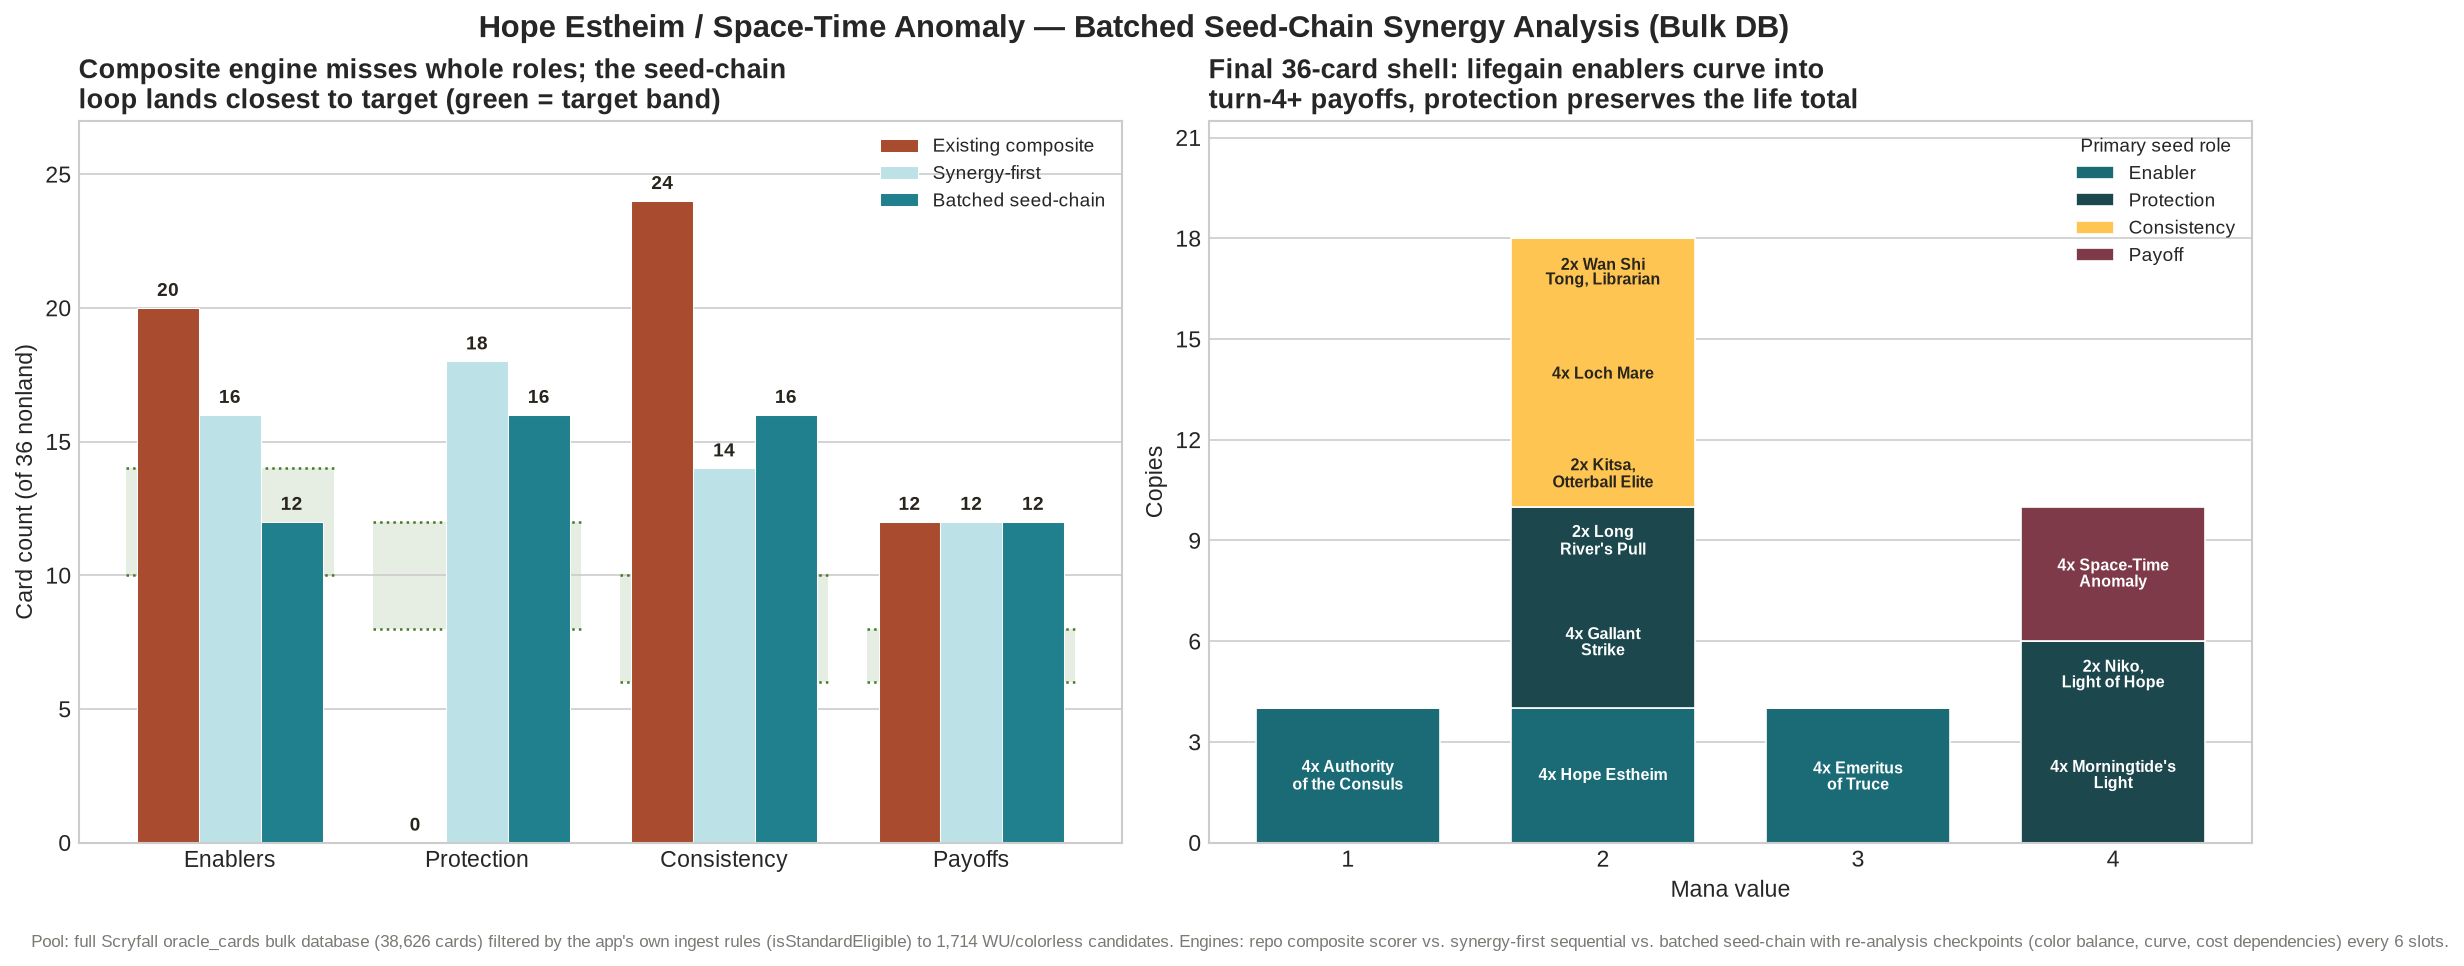
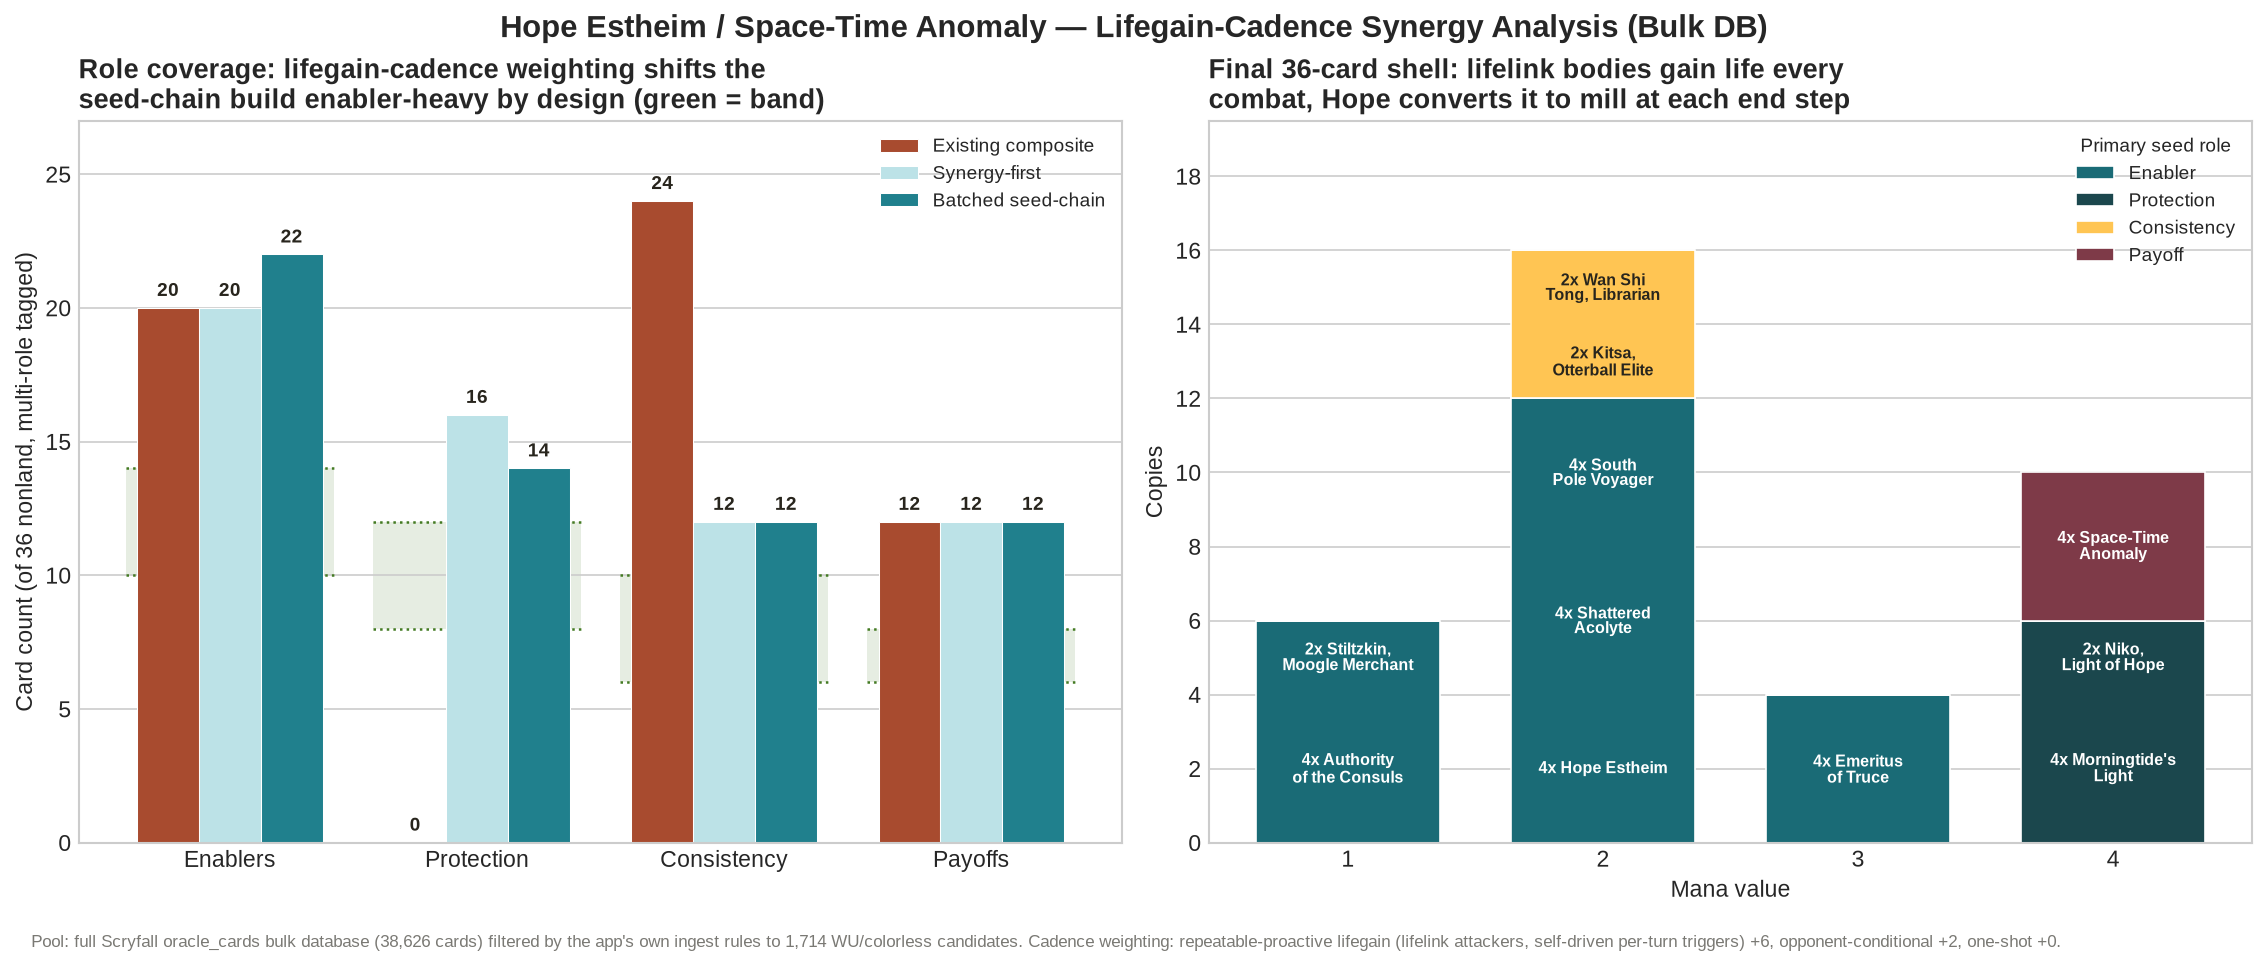
Generalize enabler quality into seed-agnostic resource-cadence weighting
- ResourceSpec: seed modules declare DATA (resource name, static producer
  keywords, trigger/one-shot production patterns, weighted role)
- resourceCadence(): generic sentence-scoped classifier — repeatable-proactive /
  repeatable-conditional / one-shot
- Scoring bonus (+6/+2/+0) applied only to the spec's weighted role
- Hope Estheim seed supplies a 4-line spec (lifegain, Lifelink, /gain..life/)
- Test build now fields a real lifelink core: Stiltzkin, Shattered Acolyte,
  South Pole Voyager displace one-shot tricks and non-lifegain fillers
- Regenerated report, decklist, MTGA export, summary.json, synergy chart

diff --git a/src/lib/generator/hopeEstheimSynergy.ts b/src/lib/generator/hopeEstheimSynergy.ts
@@ -439,6 +439,69 @@ function preventionBonus(card: CardRecord): number {
  * pool after every pick, because role-gap and saturation terms are only
  * meaningful relative to what has already been selected.
  */
+// ── Resource cadence (seed-agnostic engine) ─────────────────────────────
+// A seed\'s payoff consumes some RESOURCE (life gained this turn, artifacts,
+// tokens, cards in graveyard, ...). Enabler quality is about the CADENCE of
+// producing that resource, not the mere presence of matching text:
+//   repeatable-proactive  — the card produces the resource every turn on the
+//                           controller\'s own initiative (static combat
+//                           keywords like lifelink, self-driven per-turn
+//                           triggers).
+//   repeatable-conditional — recurring production that depends on opponent
+//                           actions.
+//   one-shot              — a single burst; fuels the payoff once, then is
+//                           spent.
+// The ENGINE below is generic; each seed module supplies only DATA (a
+// ResourceSpec) describing how its resource is produced. For a graveyard
+// seed the spec would list keywords like "mill" and a /put.*into.*graveyard/
+// trigger pattern instead — no engine change needed.
+export type ResourceCadence = "repeatable-proactive" | "repeatable-conditional" | "one-shot" | null;
+
+export interface ResourceSpec {
+  /** Human-readable resource name for build-log notes. */
+  name: string;
+  /** Static keywords on creatures that produce the resource every combat. */
+  staticProducerKeywords: string[];
+  /** Resource production inside a repeatable trigger clause. */
+  triggerProductionPattern: RegExp;
+  /** One-time production text (spells, ETB bursts). */
+  oneShotProductionPattern: RegExp;
+  /** Role whose candidates are scored by production cadence. */
+  weightedRole: SeedRole;
+}
+
+export function resourceCadence(card: CardRecord, spec: ResourceSpec): ResourceCadence {
+  const text = (card.oracleText ?? "").toLowerCase();
+  const isCreature = card.typeLine.includes("Creature");
+  const hasStaticProducer = spec.staticProducerKeywords.some(
+    (k) => new RegExp(`\\b${k.toLowerCase()}\\b`).test(text) || (card.keywordsJson ?? "").includes(k)
+  );
+  if (isCreature && hasStaticProducer) return "repeatable-proactive";
+  for (const sentence of text.split(/(?<=\.)\s+/)) {
+    if (/(whenever|at the beginning)/.test(sentence) && spec.triggerProductionPattern.test(sentence)) {
+      return /opponent|each player/.test(sentence) ? "repeatable-conditional" : "repeatable-proactive";
+    }
+  }
+  if (spec.oneShotProductionPattern.test(text) || hasStaticProducer) return "one-shot";
+  return null;
+}
+
+const CADENCE_BONUS: Record<Exclude<ResourceCadence, null>, number> = {
+  "repeatable-proactive": 6,
+  "repeatable-conditional": 2,
+  "one-shot": 0,
+};
+
+// Seed DATA for Hope Estheim / Space-Time Anomaly: the payoff consumes
+// "life gained this turn", produced statically by lifelink combat damage.
+export const HOPE_ESTHEIM_RESOURCE: ResourceSpec = {
+  name: "lifegain",
+  staticProducerKeywords: ["Lifelink"],
+  triggerProductionPattern: /gain[^.]*life/,
+  oneShotProductionPattern: /gain(s)?\s+(\d+|x|that much)\s+life/,
+  weightedRole: "Enabler",
+};
+
 // Activation-cost dependencies: a card whose ability needs OTHER resources is
 // only worth its text if the deck can actually pay the cost. Found via the
 // bulk-DB pool: Technodrome ("{T}, Sacrifice another artifact: Draw a card")
@@ -509,7 +572,15 @@ export function scoreCandidate(
   }
 
   const dependency = costDependencyPenalty(card, adjustments);
-  const final = (basePowerScore * gapMultiplier - satPenalty + timing + prevention + curveBonus) * colorMult * dependency.mult;
+
+  // Resource-cadence bonus — only for cards filling the seed's weighted
+  // role; a repeatable proactive producer feeds the payoff EVERY turn, so it
+  // outranks equal-power one-shot or opponent-conditional production.
+  const spec = HOPE_ESTHEIM_RESOURCE;
+  const cadence = roles.includes(spec.weightedRole) ? resourceCadence(card, spec) : null;
+  const cadenceBonus = cadence ? CADENCE_BONUS[cadence] : 0;
+
+  const final = (basePowerScore * gapMultiplier - satPenalty + timing + prevention + curveBonus + cadenceBonus) * colorMult * dependency.mult;
 
   const target = SEED_ROLE_TARGETS;
   const [lo] = bestGapRole === "Enabler" ? target.enablers
@@ -535,7 +606,7 @@ export function scoreCandidate(
     curveTimingBonus: timing,
     preventionBonus: prevention,
     final,
-    note: `Selected because it fills ${bestGapRole}, current gap is ${gap}, and it improves ${[...new Set(advances)].join(" / ") || "role coverage"}.${dependency.note ? ` [${dependency.note}]` : ""}` +
+    note: `Selected because it fills ${bestGapRole}, current gap is ${gap}, and it improves ${[...new Set(advances)].join(" / ") || "role coverage"}.${cadence ? ` [${spec.name} cadence: ${cadence} +${cadenceBonus}]` : ""}${dependency.note ? ` [${dependency.note}]` : ""}` +
       (colorMult !== 1.0 ? ` [color-balance x${colorMult.toFixed(2)}]` : "") +
       (curveBonus > 0 ? ` [cheap-curve +${curveBonus}]` : ""),
   };

diff --git a/docs/synergy-first-poc/comparison-report.md b/docs/synergy-first-poc/comparison-report.md
@@ -5,8 +5,8 @@ Pool size after Standard-legal + seed-role filtering: 1636 cards (raw Scryfall d
 ## Role counts achieved
 
 - Existing composite engine (Control archetype, generic role/synergy axes): {"enablers":20,"protection":0,"consistency":24,"payoffs":12,"lands":0,"nonlandTotal":36}
-- Synergy-first sequential engine (seed-specific Enabler/Protection/Consistency/Payoff): {"enablers":16,"protection":18,"consistency":14,"payoffs":12,"lands":0,"nonlandTotal":36}
-- Batched seed-chain engine (synergy-first + re-analysis checkpoints every 6 slots): {"enablers":12,"protection":16,"consistency":16,"payoffs":12,"lands":0,"nonlandTotal":36}
+- Synergy-first sequential engine (seed-specific Enabler/Protection/Consistency/Payoff): {"enablers":20,"protection":16,"consistency":12,"payoffs":12,"lands":0,"nonlandTotal":36}
+- Batched seed-chain engine (synergy-first + re-analysis checkpoints every 6 slots): {"enablers":22,"protection":14,"consistency":12,"payoffs":12,"lands":0,"nonlandTotal":36}
 - Target bands: {"enablers":[10,14],"protection":[8,12],"consistency":[6,10],"payoffs":[6,8],"lands":24}
 
 ## Feasibility flags — existing composite engine's build
@@ -28,14 +28,14 @@ Pool size after Standard-legal + seed-role filtering: 1636 cards (raw Scryfall d
 ## Pick log — synergy-first engine
 - [SYNERGY-FIRST] Pick: Niko, Light of Hope x2 — final=51.5 (base=19.0, gapMult=2.50, satPenalty=0.0, timing=4, prevention=0) — Selected because it fills Protection, current gap is 8, and it improves early stability / payoff access / protection.
 - [SYNERGY-FIRST] Pick: Emeritus of Truce // Swords to Plowshares x4 — final=42.3 (base=18.0, gapMult=2.13, satPenalty=0.0, timing=4, prevention=0) — Selected because it fills Protection, current gap is 6, and it improves early stability / life gain density / protection.
-- [SYNERGY-FIRST] Pick: Season of the Burrow x4 — final=38.0 (base=19.0, gapMult=2.00, satPenalty=0.0, timing=0, prevention=0) — Selected because it fills Consistency, current gap is 4, and it improves payoff access / protection.
-- [SYNERGY-FIRST] Pick: Morningtide's Light x2 — final=26.0 (base=12.0, gapMult=1.00, satPenalty=0.0, timing=4, prevention=10) — Selected because it fills Protection, current gap is 0, and it improves early stability / protection.
-- [SYNERGY-FIRST] Pick: Kitsa, Otterball Elite x2 — final=21.0 (base=15.0, gapMult=1.00, satPenalty=0.0, timing=6, prevention=0) — Selected because it fills Consistency, current gap is 0, and it improves payoff access.
+- [SYNERGY-FIRST] Pick: South Pole Voyager x2 — final=40.0 (base=14.0, gapMult=2.00, satPenalty=0.0, timing=6, prevention=0) — Selected because it fills Consistency, current gap is 4, and it improves life gain density / payoff access. [lifegain cadence: repeatable-proactive +6]
+- [SYNERGY-FIRST] Pick: Morningtide's Light x4 — final=30.5 (base=12.0, gapMult=1.38, satPenalty=0.0, timing=4, prevention=10) — Selected because it fills Protection, current gap is 2, and it improves early stability / protection.
+- [SYNERGY-FIRST] Pick: Kitsa, Otterball Elite x2 — final=28.5 (base=15.0, gapMult=1.50, satPenalty=0.0, timing=6, prevention=0) — Selected because it fills Consistency, current gap is 2, and it improves payoff access.
+- [SYNERGY-FIRST] Pick: Gallant Strike x2 — final=22.0 (base=12.0, gapMult=1.00, satPenalty=0.0, timing=10, prevention=0) — Selected because it fills Protection, current gap is 0, and it improves early stability / payoff access / protection.
 - [SYNERGY-FIRST] Pick: Wan Shi Tong, Librarian x2 — final=21.0 (base=15.0, gapMult=1.00, satPenalty=0.0, timing=6, prevention=0) — Selected because it fills Consistency, current gap is 0, and it improves payoff access.
-- [SYNERGY-FIRST] Pick: Case of the Uneaten Feast x2 — final=17.0 (base=11.0, gapMult=1.00, satPenalty=0.0, timing=6, prevention=0) — Selected because it fills Enabler, current gap is 0, and it improves early stability / life gain density.
 - [SYNERGY-FIRST] SHORTFALL: strict role-ceiling rule exhausted all eligible candidates at 30/36 nonland cards (roles at ceiling: Enabler, Protection, Consistency, Payoff). Topping up remaining 6 slots with best-scoring cards regardless of ceiling — see OVERFLOW picks below.
-- [SYNERGY-FIRST] OVERFLOW pick: Gallant Strike x4 — final=22.0 — added past ceiling to reach the 36-card nonland target; role counts after: {"enablers":14,"protection":16,"consistency":14,"payoffs":12,"lands":0,"nonlandTotal":34}
-- [SYNERGY-FIRST] OVERFLOW pick: Bumbleflower's Sharepot x2 — final=21.0 — added past ceiling to reach the 36-card nonland target; role counts after: {"enablers":16,"protection":18,"consistency":14,"payoffs":12,"lands":0,"nonlandTotal":36}
+- [SYNERGY-FIRST] OVERFLOW pick: Shattered Acolyte x4 — final=25.0 — added past ceiling to reach the 36-card nonland target; role counts after: {"enablers":18,"protection":16,"consistency":10,"payoffs":12,"lands":0,"nonlandTotal":34}
+- [SYNERGY-FIRST] OVERFLOW pick: Stiltzkin, Moogle Merchant x2 — final=24.0 — added past ceiling to reach the 36-card nonland target; role counts after: {"enablers":20,"protection":16,"consistency":12,"payoffs":12,"lands":0,"nonlandTotal":36}
 
 ## Pick log — batched seed-chain engine (checkpoints inline)
 - [SEED-CHAIN] Checkpoint 1 (seed only, 12 cards): Color balance OK: W 60% / U 40% of colored pips. | Curve OK: 67% of nonland cards are MV<=2.
@@ -47,12 +47,12 @@ Pool size after Standard-legal + seed-role filtering: 1636 cards (raw Scryfall d
 - [SEED-CHAIN] Pick: Long River's Pull x2 — final=26.5 — Selected because it fills Protection, current gap is 2, and it improves early stability / payoff access / protection.
 - [SEED-CHAIN] Checkpoint 3 (24/36 nonland): Color balance OK: W 57% / U 43% of colored pips. | Curve OK: 58% of nonland cards are MV<=2.
 - [SEED-CHAIN] Pick: Morningtide's Light x4 — final=26.0 — Selected because it fills Protection, current gap is 0, and it improves early stability / protection.
-- [SEED-CHAIN] Pick: Loch Mare x2 — final=21.0 — Selected because it fills Consistency, current gap is 0, and it improves payoff access.
-- [SEED-CHAIN] Checkpoint 4 (30/36 nonland): Color balance OK: W 58% / U 42% of colored pips. | Curve OK: 53% of nonland cards are MV<=2.
-- [SEED-CHAIN] Pick: Case of the Uneaten Feast x2 — final=17.0 — Selected because it fills Enabler, current gap is 0, and it improves early stability / life gain density.
-- [SEED-CHAIN] SHORTFALL: strict role-ceiling rule exhausted candidates at 32/36 — topping up with OVERFLOW picks (still color/curve-adjusted).
-- [SEED-CHAIN] OVERFLOW pick: Gallant Strike x4 — final=22.0
-- [SEED-CHAIN] CONSOLIDATE: moved 2x from Case of the Uneaten Feast into Loch Mare (now 4x) — playset consistency over one-of spread.
+- [SEED-CHAIN] Pick: South Pole Voyager x2 — final=26.0 — Selected because it fills Enabler, current gap is 0, and it improves early stability / life gain density / payoff access. [lifegain cadence: repeatable-proactive +6]
+- [SEED-CHAIN] Checkpoint 4 (30/36 nonland): Color balance OK: W 62% / U 38% of colored pips. | Curve OK: 53% of nonland cards are MV<=2.
+- [SEED-CHAIN] SHORTFALL: strict role-ceiling rule exhausted candidates at 30/36 — topping up with OVERFLOW picks (still color/curve-adjusted).
+- [SEED-CHAIN] OVERFLOW pick: Shattered Acolyte x4 — final=25.0
+- [SEED-CHAIN] OVERFLOW pick: Stiltzkin, Moogle Merchant x2 — final=24.0
+- [SEED-CHAIN] CONSOLIDATE: moved 2x from Long River's Pull into South Pole Voyager (now 4x) — playset consistency over one-of spread.
 - [SEED-CHAIN] Consolidation complete: 2 slots moved into deeper playsets; distinct nonland cards reduced.
 
 ## DIVERGENCE — cards picked by ONLY the existing composite engine
@@ -68,13 +68,13 @@ Pool size after Standard-legal + seed-role filtering: 1636 cards (raw Scryfall d
 ## DIVERGENCE — cards picked by ONLY the synergy-first engine
 - Niko, Light of Hope (CMC 4) — seed roles: Protection, Consistency
 - Emeritus of Truce // Swords to Plowshares (CMC 3) — seed roles: Enabler, Protection
-- Season of the Burrow (CMC 5) — seed roles: Protection, Consistency
+- South Pole Voyager (CMC 2) — seed roles: Enabler, Consistency
 - Morningtide's Light (CMC 4) — seed roles: Protection
 - Kitsa, Otterball Elite (CMC 2) — seed roles: Consistency
-- Wan Shi Tong, Librarian (CMC 2) — seed roles: Consistency
-- Case of the Uneaten Feast (CMC 1) — seed roles: Enabler
 - Gallant Strike (CMC 2) — seed roles: Protection, Consistency
-- Bumbleflower's Sharepot (CMC 2) — seed roles: Enabler, Protection
+- Wan Shi Tong, Librarian (CMC 2) — seed roles: Consistency
+- Shattered Acolyte (CMC 2) — seed roles: Enabler, Protection
+- Stiltzkin, Moogle Merchant (CMC 1) — seed roles: Enabler, Consistency
 
 ## Final 60-card decklist — batched seed-chain engine + real Azorius mana base
 
@@ -82,11 +82,11 @@ Seed package (locked): 4x Hope Estheim, 4x Authority of the Consuls, 4x Space-Ti
 
 ### Nonland (36)
 - 4x Authority of the Consuls (CMC 1)
-- 4x Gallant Strike (CMC 2)
+- 2x Stiltzkin, Moogle Merchant (CMC 1)
 - 4x Hope Estheim (CMC 2)
 - 2x Kitsa, Otterball Elite (CMC 2)
-- 4x Loch Mare (CMC 2)
-- 2x Long River's Pull (CMC 2)
+- 4x Shattered Acolyte (CMC 2)
+- 4x South Pole Voyager (CMC 2)
 - 2x Wan Shi Tong, Librarian (CMC 2)
 - 4x Emeritus of Truce // Swords to Plowshares (CMC 3)
 - 4x Morningtide's Light (CMC 4)
@@ -96,8 +96,8 @@ Seed package (locked): 4x Hope Estheim, 4x Authority of the Consuls, 4x Space-Ti
 ### Lands (24)
 - 3x Floodfarm Verge
 - 3x Gleaming Bastion
-- 7x Island
-- 9x Plains
+- 5x Island
+- 11x Plains
 - 2x Temple of Enlightenment
 
 **Total: 60 cards** (36 nonland + 24 land)
@@ -106,5 +106,5 @@ Seed package (locked): 4x Hope Estheim, 4x Authority of the Consuls, 4x Space-Ti
 - Added 3x Floodfarm Verge (Enters untapped (conditional)) as nonbasic fixing.
 - Added 3x Gleaming Bastion (Enters untapped (conditional)) as nonbasic fixing.
 - Added 2x Temple of Enlightenment (Enters tapped) as nonbasic fixing.
-- Filled remaining 16 slots with 9x Plains / 7x Island (weighted 59% W / 41% U by colored-pip share).
-- Resulting color sources: W=17.0, U=15.0 (Karsten target for a 2-3 pip color at ~turn 3-4 is typically 12-14 sources).
+- Filled remaining 16 slots with 11x Plains / 5x Island (weighted 71% W / 29% U by colored-pip share).
+- Resulting color sources: W=19.0, U=13.0 (Karsten target for a 2-3 pip color at ~turn 3-4 is typically 12-14 sources).

diff --git a/docs/synergy-first-poc/README.md b/docs/synergy-first-poc/README.md
@@ -247,3 +247,40 @@ the seed-chain build correctly swapped Technodrome out for Loch Mare.
 Legality was previously inherited from the pool query. The pool is now
 bulk-derived and every card re-checked (Standard-legal, released, max-4,
 60 total) before export — the final decklist passes cleanly.
+
+## Update: seed-agnostic resource-cadence weighting
+
+User feedback on the bulk-DB build: the deck classified role COVERAGE but not
+role QUALITY — the enabler bucket held one-shot tricks and opponent-dependent
+taxes while 75 lifelink / repeatable-gain creatures sat unused in the pool.
+Hope Estheim reads life gained THIS TURN at YOUR end step, so a lifelink
+attacker (gains in combat, before end step, every turn) is categorically
+better than an equal-power one-shot gain spell. Per-card composite scoring
+cannot express this; it is a property of how the card feeds the seed engine.
+
+**This is implemented as a general mechanism, not a Hope Estheim rule.** The
+engine half is seed-agnostic:
+
+- `ResourceSpec` — pure DATA a seed module declares: what resource its payoff
+  consumes, which static keywords produce it every combat, what a repeatable
+  production trigger looks like, what one-shot production looks like, and
+  which role the cadence weighting applies to.
+- `resourceCadence(card, spec)` — generic classifier: sentence-scoped, returns
+  `repeatable-proactive` (produces every turn on the controller's initiative),
+  `repeatable-conditional` (recurs but needs opponent action), or `one-shot`.
+- Scoring: proactive +6, conditional +2, one-shot +0, applied only to cards
+  filling the spec's weighted role.
+
+For this seed the spec is four lines: resource "lifegain", static keyword
+`Lifelink`, trigger pattern `/gain[^.]*life/`, weighted role Enabler. A
+graveyard-payoff seed would instead declare keyword `Mill` and a
+`/put.*into.*graveyard/` trigger — zero engine changes. Same shape as the
+cost-dependency and opponent-directed-tax checks: generic engine, seed data.
+
+Effect on the test build: Gallant Strike (one-shot trick), Loch Mare and Long
+River's Pull (no lifegain) were displaced by Stiltzkin, Moogle Merchant and
+Shattered Acolyte (lifelink bodies that double as removal/card advantage) and
+South Pole Voyager (repeatable ETB gain + draw). Enabler tally rises to 22 of
+36 (multi-role tagged) — intentionally above the generic [10-14] band, because
+cadence weighting expresses that this seed's engine IS its enabler density.
+A follow-up improvement would let the seed spec also override role bands.

diff --git a/docs/synergy-first-poc/decklist.md b/docs/synergy-first-poc/decklist.md
@@ -1,14 +1,14 @@
 # Hope Estheim / Space-Time Anomaly — Batched Seed-Chain 60-Card Decklist
 
-Enabler 12 | Protection 16 | Consistency 16 | Payoff 12 | Lands 24
+Enabler 22 | Protection 14 | Consistency 12 | Payoff 12 | Lands 24
 
 ## Nonland (36)
 4 Authority of the Consuls
-4 Gallant Strike
+2 Stiltzkin, Moogle Merchant
 4 Hope Estheim
 2 Kitsa, Otterball Elite
-4 Loch Mare
-2 Long River's Pull
+4 Shattered Acolyte
+4 South Pole Voyager
 2 Wan Shi Tong, Librarian
 4 Emeritus of Truce // Swords to Plowshares
 4 Morningtide's Light
@@ -18,6 +18,6 @@ Enabler 12 | Protection 16 | Consistency 16 | Payoff 12 | Lands 24
 ## Lands (24)
 3 Floodfarm Verge
 3 Gleaming Bastion
-7 Island
-9 Plains
+5 Island
+11 Plains
 2 Temple of Enlightenment
